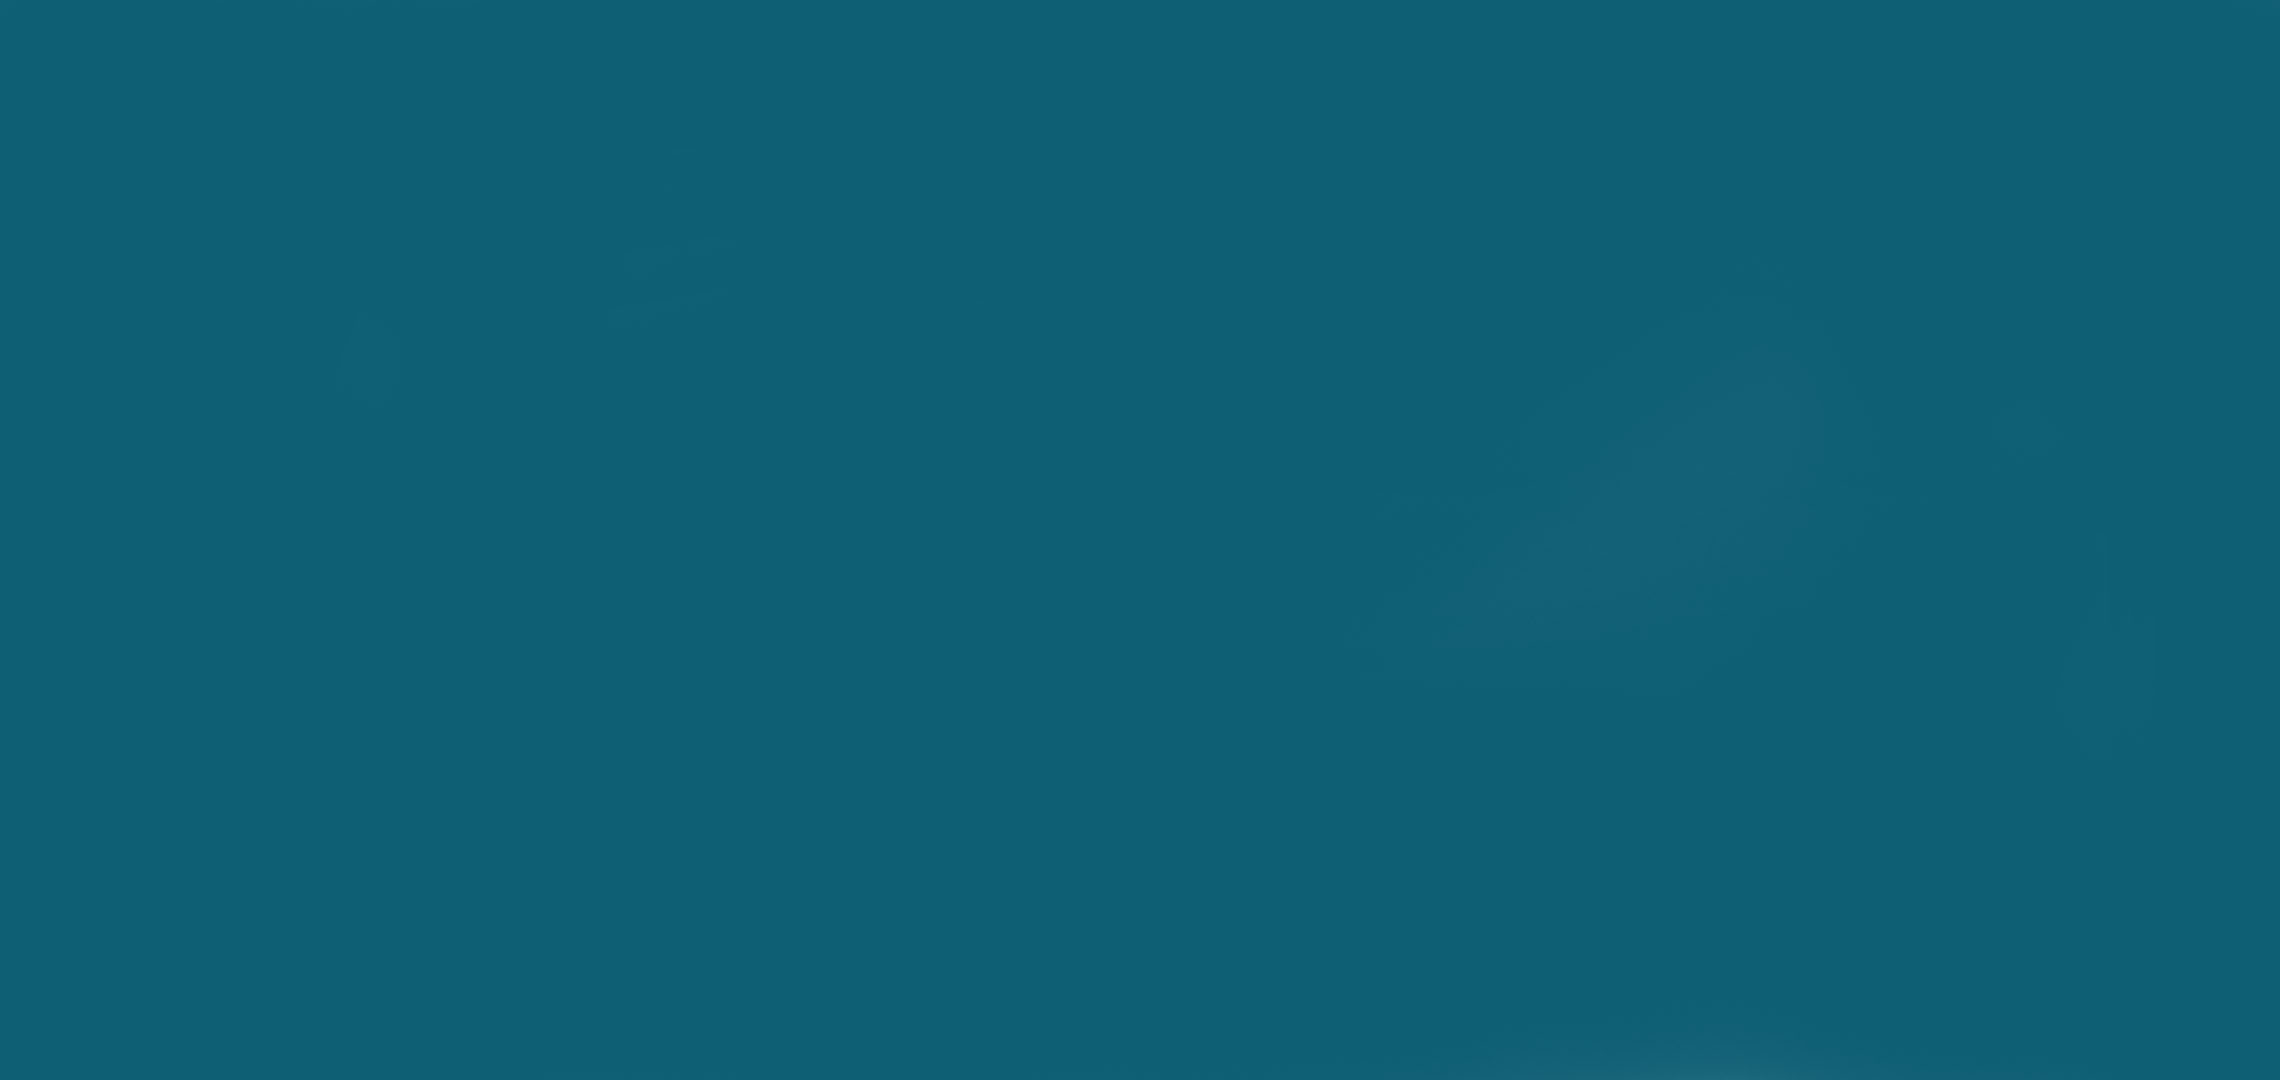
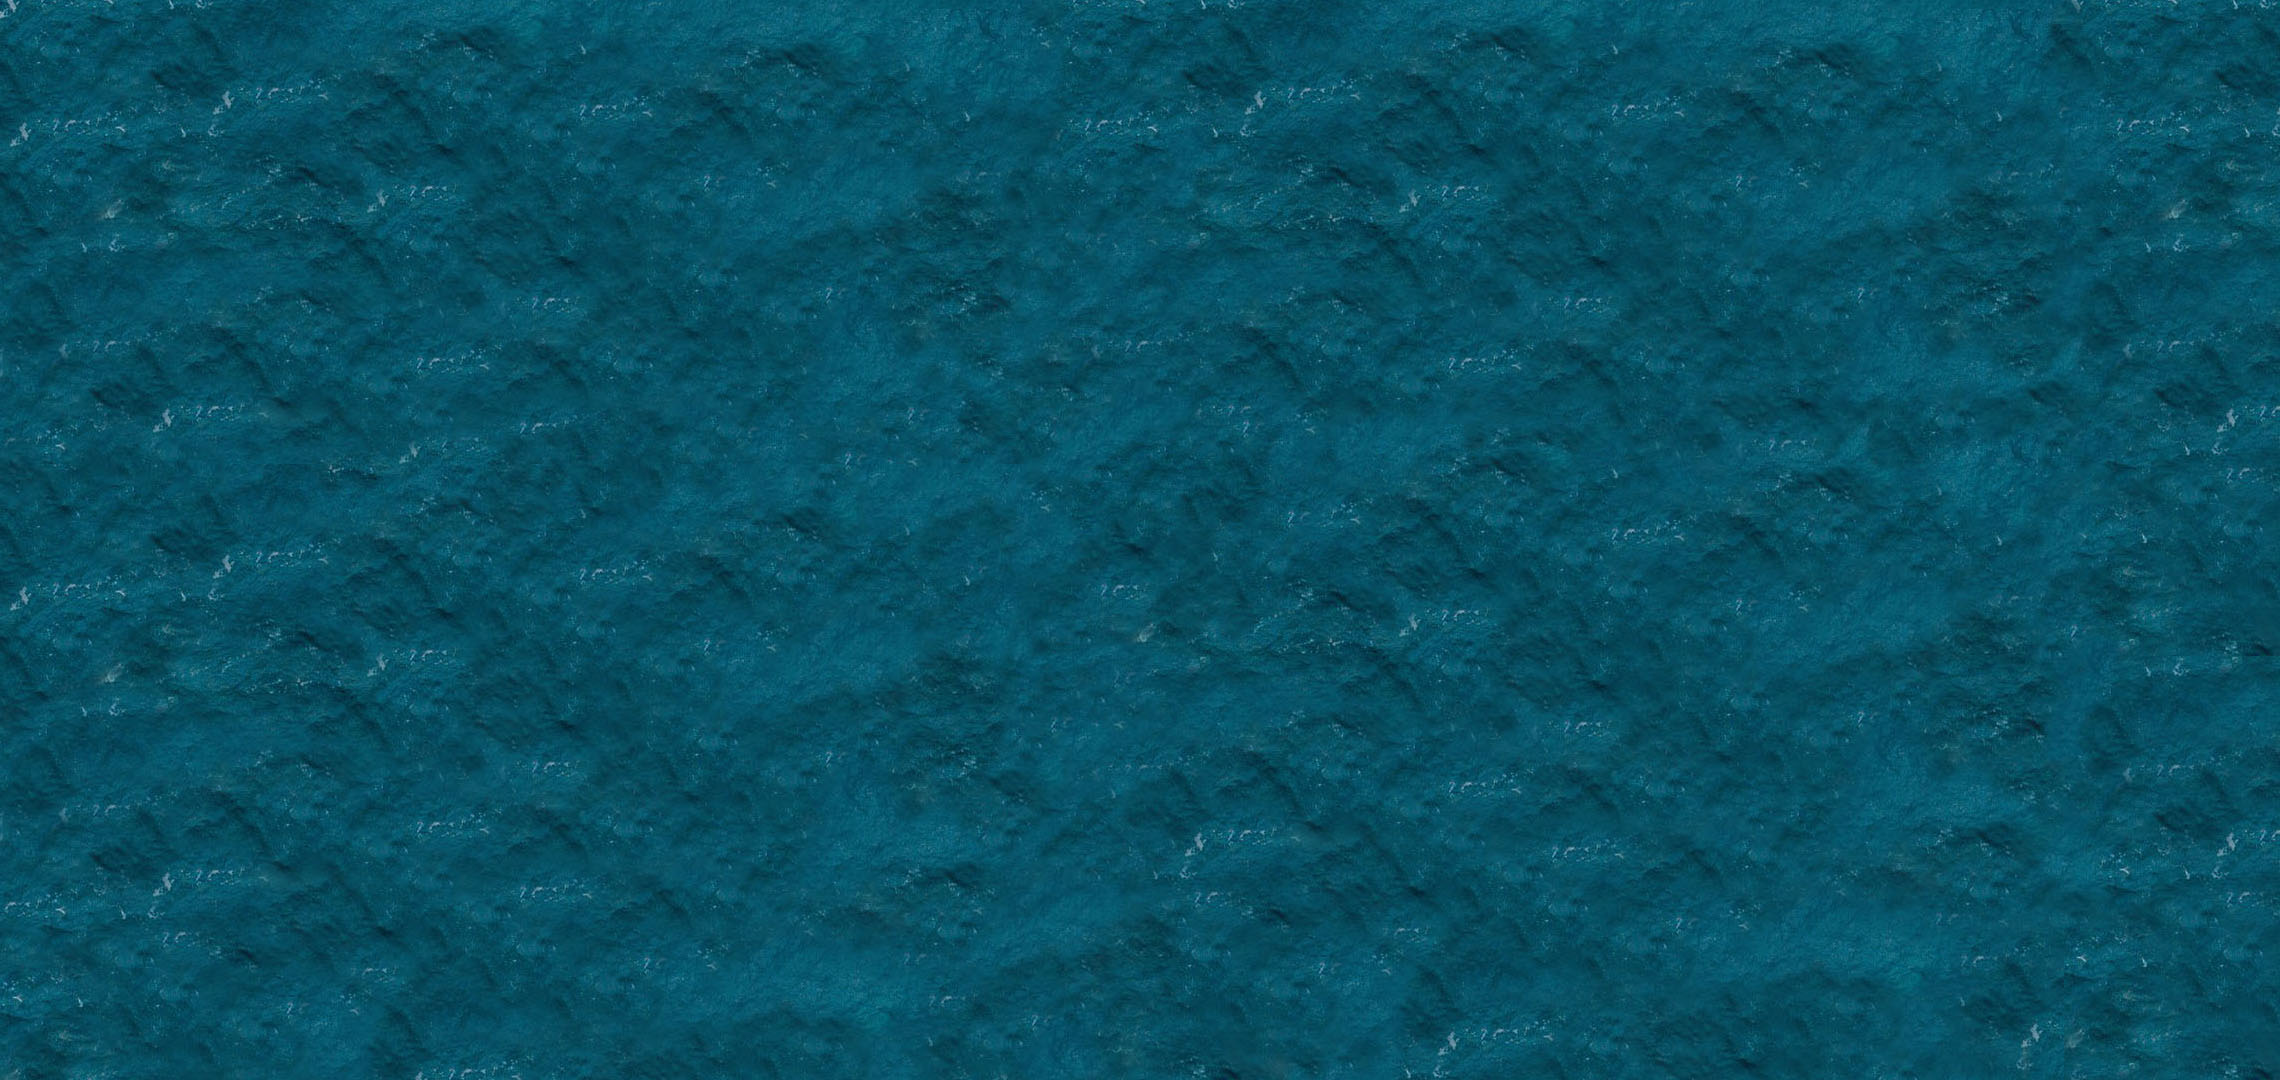
refactor background

Changed region(s): [[0.0, 0.0, 1.0, 1.0]]

diff --git a/core/src/com/mygdx/game/Hero.java b/core/src/com/mygdx/game/Hero.java
@@ -34,7 +34,7 @@ public class Hero {
 
     public Hero(){
         texture = new Texture("Hero.png");
-        position = new Vector2(640, 360);
+        position = new Vector2(640, 30);
         velocity = new Vector2(0,0);
         maxEnginePower = 400.0f;
         lowEnginePower = 200.0f;
@@ -58,25 +58,12 @@ public class Hero {
         if (InputHandler.isTouched()){
             float tx = InputHandler.getX();
             float ty = InputHandler.getY();
-            float ang = (float)atan2(ty- position.y, tx - position.x);
-            if (angle> ang){
-                if (angle-ang < PI){
-                    angle -=rotationSpeed*dt;
-                }else {
-                    angle +=rotationSpeed*dt;
-                }
-            }
-            if (angle<ang){
-                if (ang-angle<PI){
-                    angle+=rotationSpeed*dt;
-                }else {
-                    angle-=rotationSpeed*dt;
-                }
-            }
             currentEnginePower+=100*dt;
             if (currentEnginePower>maxEnginePower)currentEnginePower = maxEnginePower;
-            velocity.add((float)(currentEnginePower*cos(angle)*dt),(float)(currentEnginePower*
-                    sin(angle)*dt));
+            if (tx<1000f){
+                velocity.add(-10f,0f);
+            }else velocity.add(10f,0f);
+
         }
     }
     public void fire(){

diff --git a/core/src/com/mygdx/game/Background.java b/core/src/com/mygdx/game/Background.java
@@ -11,8 +11,8 @@ public class Background {
         float scl;
         public Wave(){
             position = new Vector2((float)Math.random()*2080,(float)Math.random()*1080);
-            velocity = new Vector2((float)(Math.random()-0.5)*5f,(float)(Math.random()-0.5)*5f);
-            scl = 0.5f+(float)Math.random()/4.0f;
+            velocity = new Vector2((float)(Math.random()-0.5)*25f,(float)(Math.random()-0.5)*25f);
+            scl = 0.5f+(float)Math.random()/2.0f;
         }
         public void update(Hero hero, float dt){
             position.mulAdd(velocity, dt);
@@ -30,7 +30,7 @@ public class Background {
     public Background(){
         texture = new Texture("background_okean.jpg");
         textureWave = new Texture("eWave.png");
-        waves  = new Wave[350];
+        waves  = new Wave[500];
         for (int i = 0; i <waves.length ; i++) {
             waves[i] = new Wave();
         }
